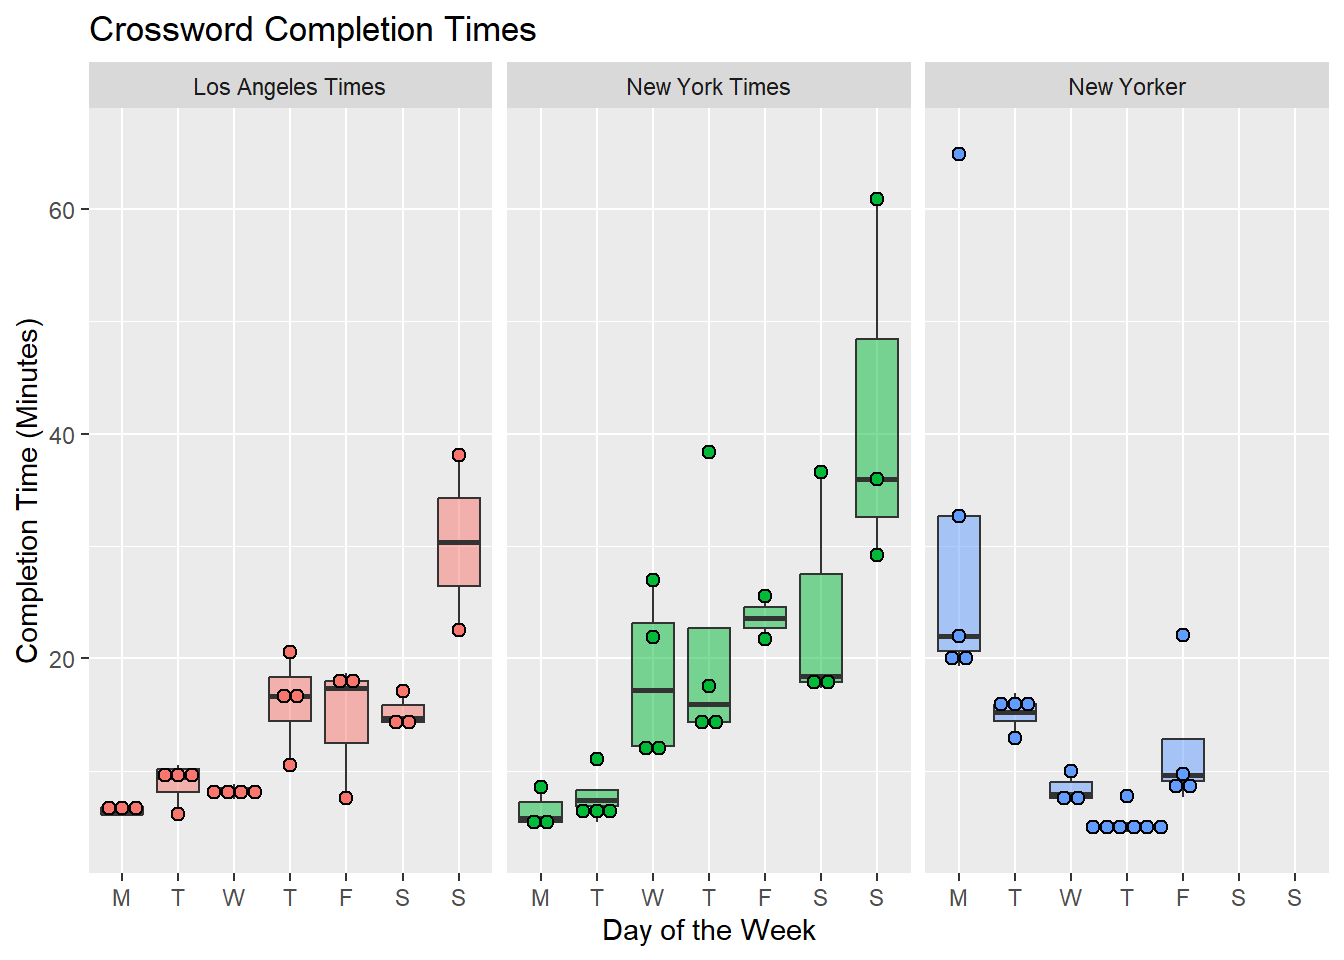
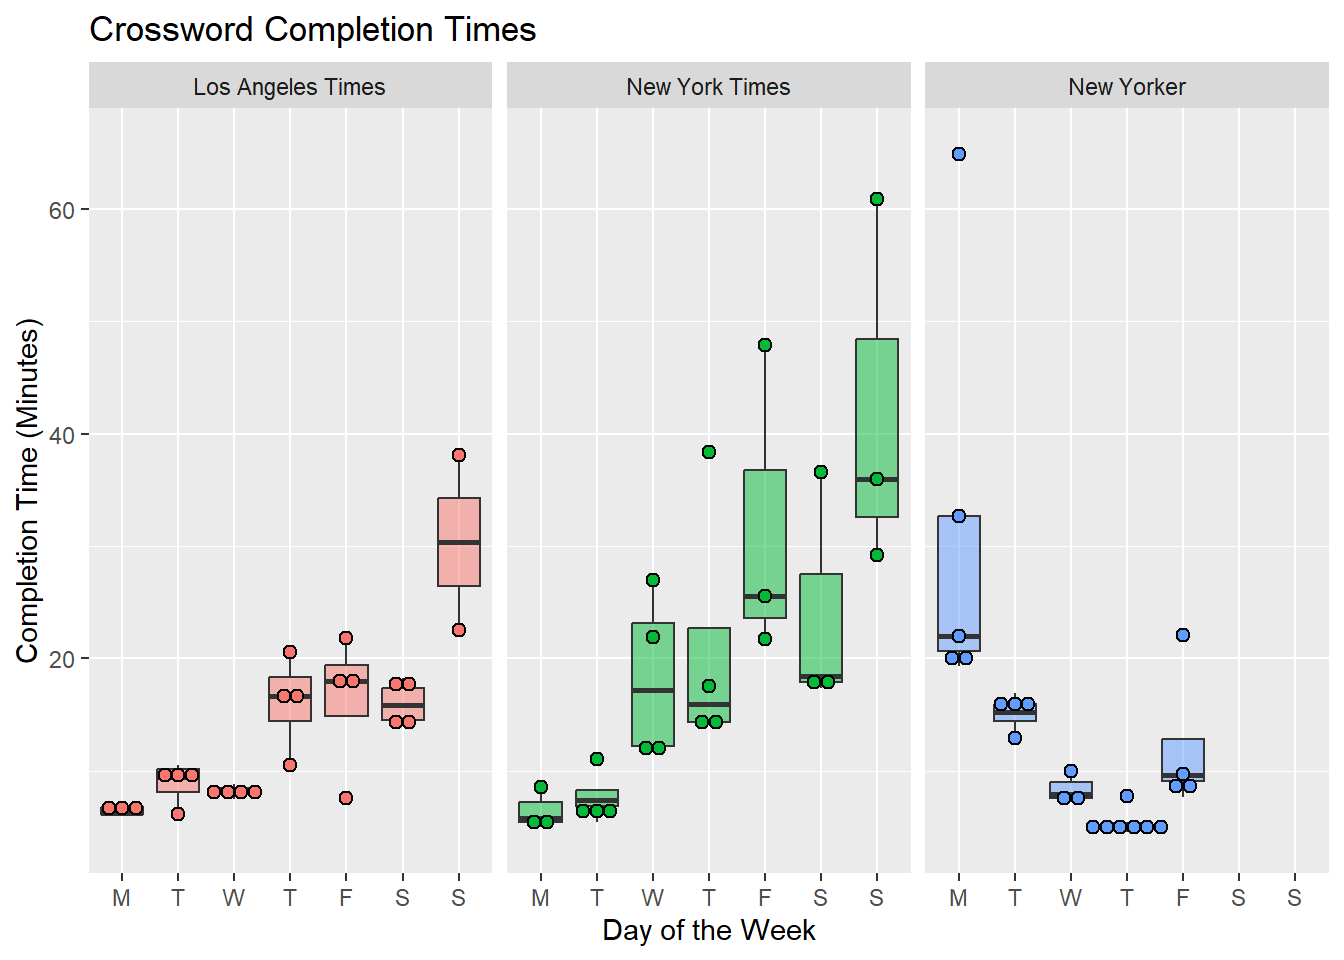
posts:  - update data, charts for crossword times
links:
 - remove duplicate
 - remove single-celled dog, biology category
 - add some

Changed region(s): [[0.5312, 0.4688, 0.5938, 0.6562], [0.2188, 0.6562, 0.3125, 0.7812], [0.5625, 0.3438, 0.5938, 0.375]]

diff --git a/links.html b/links.html
@@ -132,12 +132,6 @@ ul.task-list li input[type="checkbox"] {
 <li><a href="http://www.gerdarntz.org/">Gerd Arntz Web Archive</a></li>
 </ul>
 </section>
-<section id="biology" class="level1">
-<h1>🧬 Biology</h1>
-<ul>
-<li><a href="https://www.cam.ac.uk/research/news/11000-year-old-living-dog-cancer-reveals-its-secrets">Single-celled dog</a></li>
-</ul>
-</section>
 <section id="cities" class="level1">
 <h1>🏙 Cities</h1>
 <ul>
@@ -182,6 +176,7 @@ ul.task-list li input[type="checkbox"] {
 <li><a href="https://www.johndcook.com/blog/2010/10/06/probability-a-number-is-prime/">Probability that a number is prime</a></li>
 <li><a href="https://shakoist.substack.com/p/why-business-data-science-irritates">Why Business Data Science Irritates Me</a></li>
 <li><a href="https://dynomight.net/simpsons-paradox/">Simpson’s paradox all the way down</a></li>
+<li><a href="https://ryxcommar.com/2019/07/14/on-moving-from-statistics-to-machine-learning-the-final-stage-of-grief/">On Moving from Statistics to Machine Learning, the Final Stage of Grief</a></li>
 </ul>
 </section>
 <section id="games" class="level1">
